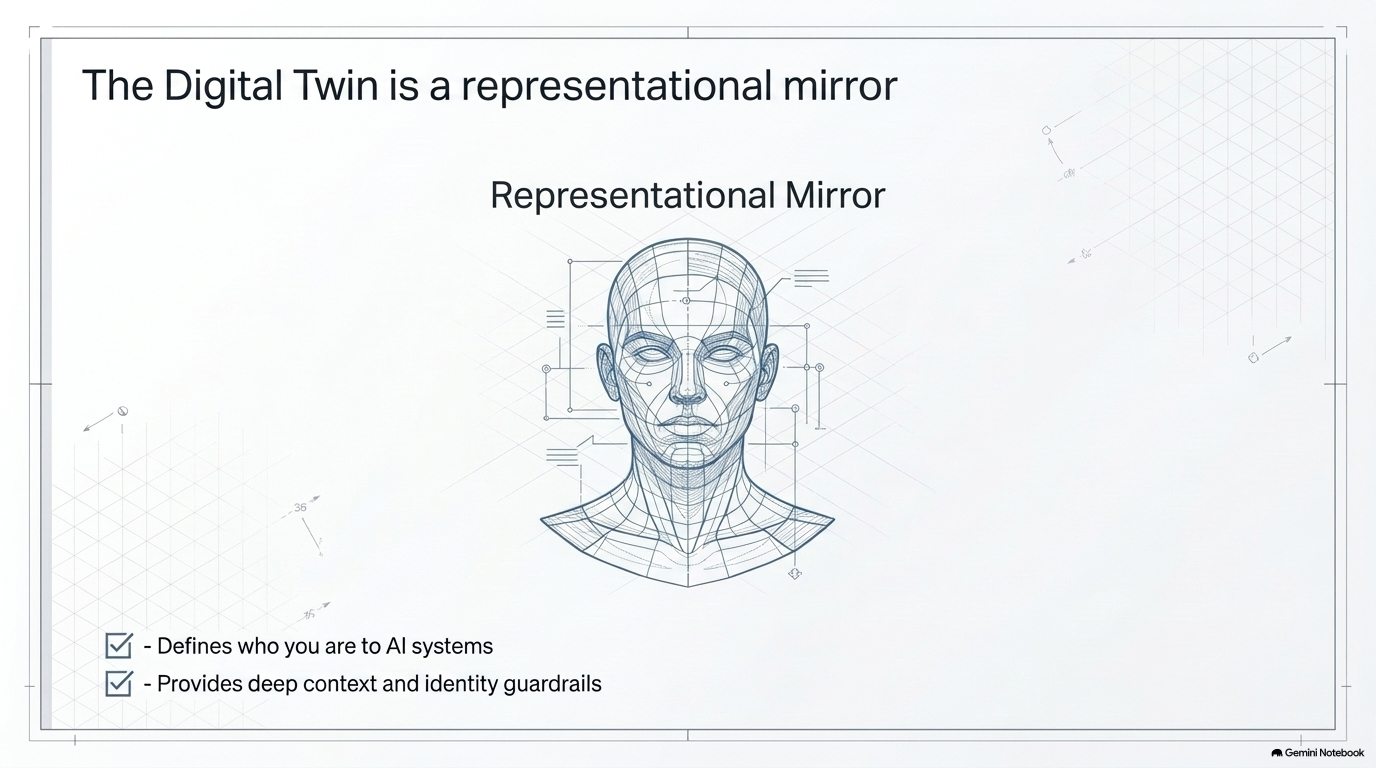
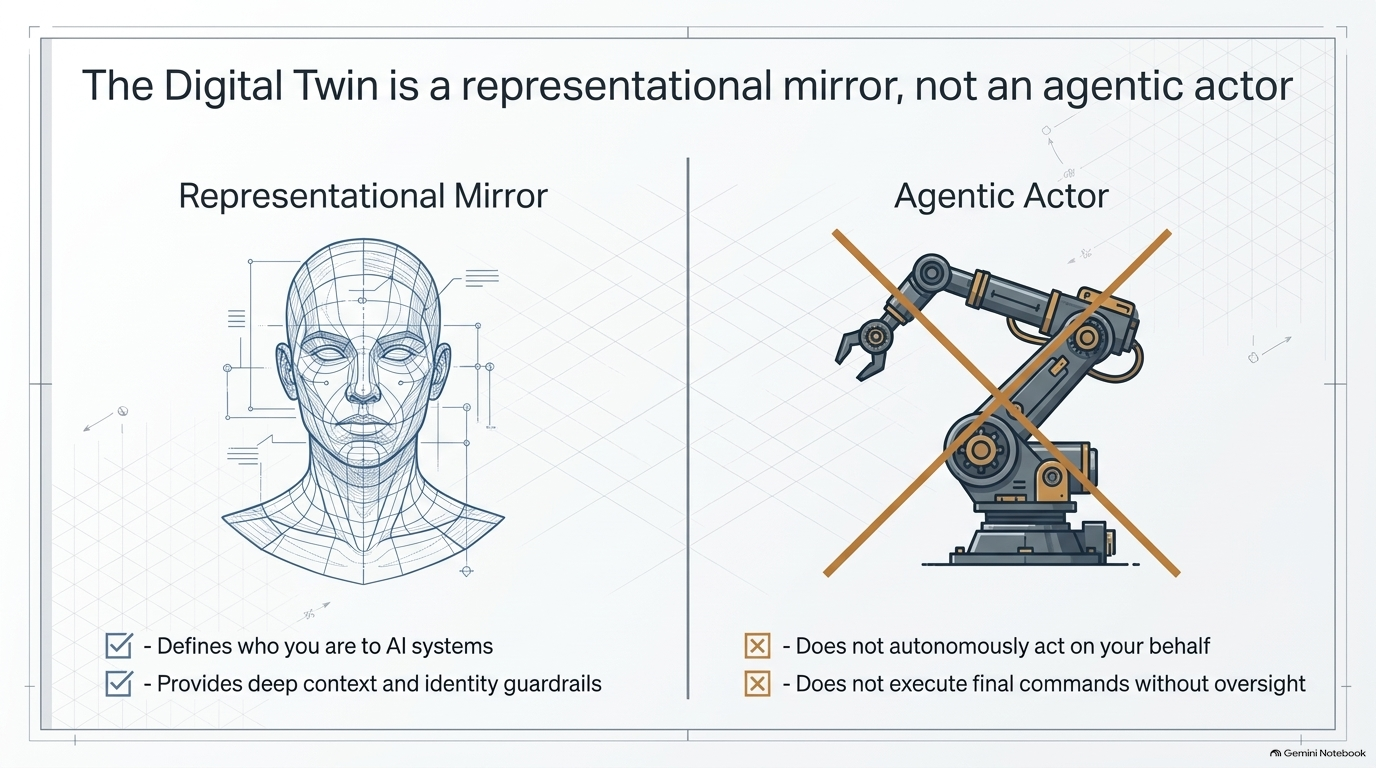
Update slide to full mirror-vs-actor version

diff --git a/README.md b/README.md
@@ -6,7 +6,7 @@ You don't need to be technical. If you can use ChatGPT, Claude, or Gemini, you c
 
 ## What is a digital twin?
 
-![The Digital Twin is a representational mirror: it defines who you are to AI systems and provides deep context and identity guardrails.](images/digital-twin-representational-mirror.png)
+![The Digital Twin is a representational mirror, not an agentic actor. A representational mirror defines who you are to AI systems and provides deep context and identity guardrails. It does not autonomously act on your behalf or execute final commands without oversight.](images/digital-twin-representational-mirror.png)
 
 A digital twin is a virtual copy of something real. In this project, it's a copy of **you**: an AI that knows your interests, how you talk, who you'd like to meet, and what it should never say or do for you.
 
